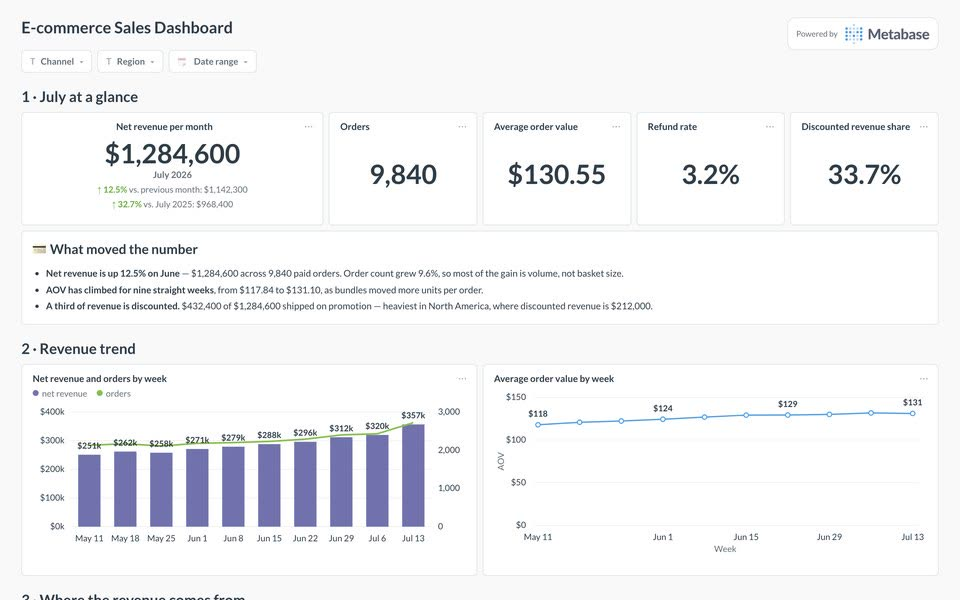
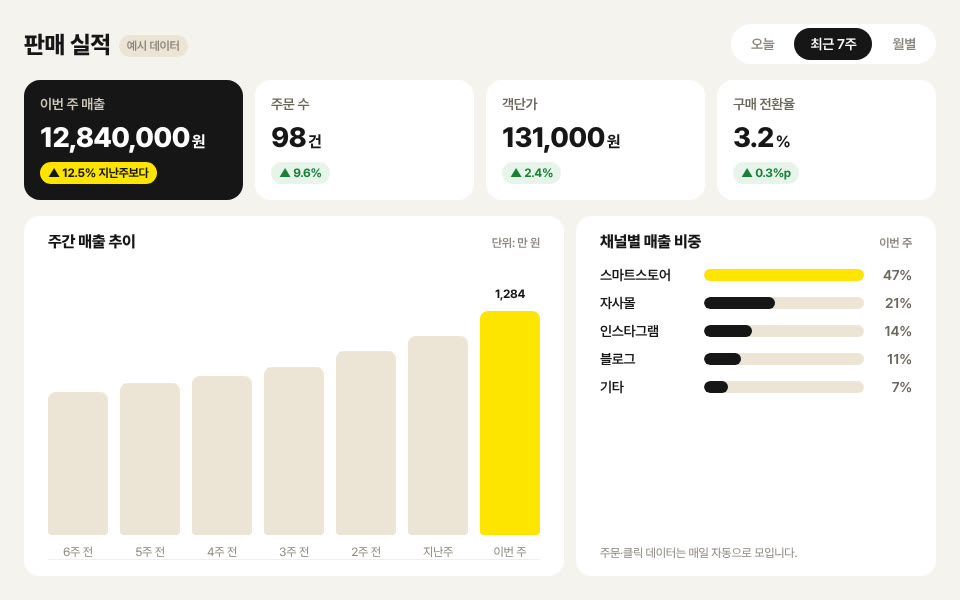
메인 흐름 04 실적 확인 화면을 한국어 미니멀 대시보드(예시 데이터)로 교체
- 영어 Metabase 샘플 대신 매출·주문·객단가·전환율 카드, 주간 막대, 채널 비중을 한국어로 보여 주는 6초 반복 WebP(1.1MB→95KB)
- 생성 원본·스크립트 tools/flow-step4, 문서 77절

Claude-Session: https://claude.ai/code/session_0154aptk4P8ouMd3uFqhwB6x

diff --git a/index.html b/index.html
@@ -162,7 +162,7 @@
   <div class="wrap">
     <div class="h-flow-head"><p class="h-kicker">WORKFLOW</p><h2 id="hFlowTitle">기획부터 실적 확인까지,<br>실제 화면으로 보는 흐름</h2>
     <p>도구를 단계별로 이어 쓰는 흐름입니다. 단계 사이가 자동으로 연결되는 기능은 아니며, 화면은 고객 실적이나 AI 자동 실행 결과가 아닙니다.</p></div>
-    <ol class="wf wf-2"><li class="wf-step"><figure><span class="wf-shot"><picture><source media="(prefers-reduced-motion: reduce)" srcset="assets/screens/flow-step1-poster.jpg"><img src="assets/screens/flow-step1.webp" width="680" height="712" alt="망고트리 AI 기획 실제 화면: 인사말과 질문이 차례로 나타나고, 상세페이지·홈페이지·카탈로그·포장디자인 중 고르는 선택지가 열림" loading="lazy" decoding="async"></picture></span><figcaption class="wf-body"><span class="wf-n">01</span><h3>기획 입력</h3><p>망고트리 AI 기획에서 만들 것(상세페이지·홈페이지·카탈로그·포장디자인)을 고르고, 질문에 차례로 답하며 기획 방향을 정리합니다.</p><p class="wf-next">다음 → 템플릿 고르기</p></figcaption></figure></li><li class="wf-step"><figure><span class="wf-shot"><picture><source media="(prefers-reduced-motion: reduce)" srcset="assets/screens/flow-step2-poster.jpg"><img src="assets/screens/flow-step2.webp" width="960" height="600" alt="페이지메이커 템플릿 갤러리 실제 화면이 자동으로 진행되는 장면: 검색창에 상세페이지를 입력하고 템플릿 목록을 내려 봄" loading="lazy" decoding="async"></picture></span><figcaption class="wf-body"><span class="wf-n">02</span><h3>템플릿 고르기</h3><p>페이지메이커 템플릿 갤러리에서 유형(상세페이지·카드뉴스·포스터 등)과 업종으로 템플릿을 찾아 고릅니다.</p><p class="wf-next">다음 → 링크 만들어 알리기</p></figcaption></figure></li><li class="wf-step"><figure><span class="wf-shot"><picture><source media="(prefers-reduced-motion: reduce)" srcset="assets/screens/flow-step3-poster.jpg"><img src="assets/screens/flow-step3.webp" width="960" height="600" alt="페이지커넥트 커넥트 실제 화면이 자동으로 진행되는 장면: 숙소 상품마다 판매수익률·가격과 링크 복사 버튼이 있는 목록을 내려 봄" loading="lazy" decoding="async"></picture></span><figcaption class="wf-body"><span class="wf-n">03</span><h3>링크 만들어 알리기</h3><p>페이지커넥트에서 홍보할 상품의 링크를 만들어 블로그·SNS에 게시합니다.</p><p class="wf-next">다음 → 실적 확인</p></figcaption></figure></li><li class="wf-step"><figure><span class="wf-shot"><picture><source media="(prefers-reduced-motion: reduce)" srcset="assets/screens/flow-step4-poster.jpg"><img src="assets/screens/flow-step4.webp" width="960" height="600" alt="통계 대시보드 예시 화면을 위에서 아래로 훑는 장면: 매출·주문 수·객단가, 주간 추이, 채널별 비중" loading="lazy" decoding="async"></picture></span><figcaption class="wf-body"><span class="wf-n">04</span><h3>실적 확인</h3><p>매출·주문 수와 주간 추이, 채널별 실적을 한눈에 확인하는 통계 화면 예시입니다.</p><p class="wf-next end">마지막 단계</p></figcaption></figure></li></ol>
+    <ol class="wf wf-2"><li class="wf-step"><figure><span class="wf-shot"><picture><source media="(prefers-reduced-motion: reduce)" srcset="assets/screens/flow-step1-poster.jpg"><img src="assets/screens/flow-step1.webp" width="680" height="712" alt="망고트리 AI 기획 실제 화면: 인사말과 질문이 차례로 나타나고, 상세페이지·홈페이지·카탈로그·포장디자인 중 고르는 선택지가 열림" loading="lazy" decoding="async"></picture></span><figcaption class="wf-body"><span class="wf-n">01</span><h3>기획 입력</h3><p>망고트리 AI 기획에서 만들 것(상세페이지·홈페이지·카탈로그·포장디자인)을 고르고, 질문에 차례로 답하며 기획 방향을 정리합니다.</p><p class="wf-next">다음 → 템플릿 고르기</p></figcaption></figure></li><li class="wf-step"><figure><span class="wf-shot"><picture><source media="(prefers-reduced-motion: reduce)" srcset="assets/screens/flow-step2-poster.jpg"><img src="assets/screens/flow-step2.webp" width="960" height="600" alt="페이지메이커 템플릿 갤러리 실제 화면이 자동으로 진행되는 장면: 검색창에 상세페이지를 입력하고 템플릿 목록을 내려 봄" loading="lazy" decoding="async"></picture></span><figcaption class="wf-body"><span class="wf-n">02</span><h3>템플릿 고르기</h3><p>페이지메이커 템플릿 갤러리에서 유형(상세페이지·카드뉴스·포스터 등)과 업종으로 템플릿을 찾아 고릅니다.</p><p class="wf-next">다음 → 링크 만들어 알리기</p></figcaption></figure></li><li class="wf-step"><figure><span class="wf-shot"><picture><source media="(prefers-reduced-motion: reduce)" srcset="assets/screens/flow-step3-poster.jpg"><img src="assets/screens/flow-step3.webp" width="960" height="600" alt="페이지커넥트 커넥트 실제 화면이 자동으로 진행되는 장면: 숙소 상품마다 판매수익률·가격과 링크 복사 버튼이 있는 목록을 내려 봄" loading="lazy" decoding="async"></picture></span><figcaption class="wf-body"><span class="wf-n">03</span><h3>링크 만들어 알리기</h3><p>페이지커넥트에서 홍보할 상품의 링크를 만들어 블로그·SNS에 게시합니다.</p><p class="wf-next">다음 → 실적 확인</p></figcaption></figure></li><li class="wf-step"><figure><span class="wf-shot"><picture><source media="(prefers-reduced-motion: reduce)" srcset="assets/screens/flow-step4-poster.jpg"><img src="assets/screens/flow-step4.webp" width="960" height="600" alt="판매 실적 예시 화면(예시 데이터): 이번 주 매출·주문 수·객단가·구매 전환율 숫자가 올라가고, 주간 매출 막대와 채널별 매출 비중 막대가 차례로 채워짐" loading="lazy" decoding="async"></picture></span><figcaption class="wf-body"><span class="wf-n">04</span><h3>실적 확인</h3><p>매출·주문 수와 주간 추이, 채널별 실적을 한눈에 확인하는 통계 화면 예시입니다.</p><p class="wf-next end">마지막 단계</p></figcaption></figure></li></ol>
   </div>
 </section>
 

diff --git a/tools/flow-step4/dashboard.html b/tools/flow-step4/dashboard.html
@@ -1,0 +1,69 @@
+<!doctype html><html lang="ko"><head><meta charset="utf-8">
+<!-- 메인 h-flow 04 「실적 확인」 화면 원본(960x600). 수치는 화면 설명용 예시 데이터. tools/flow-step4/render.js 로 animated WebP 생성 -->
+<link rel="stylesheet" href="https://cdn.jsdelivr.net/gh/orioncactus/pretendard@v1.3.9/dist/web/static/pretendard.min.css">
+<style>
+*{box-sizing:border-box;margin:0;padding:0}
+html,body{width:960px;height:600px;overflow:hidden;background:#F5F3EE;font-family:Pretendard,sans-serif;color:#161616;letter-spacing:-.02em}
+.app{position:absolute;inset:24px;display:grid;grid-template-rows:auto auto 1fr;gap:16px}
+.top{display:flex;align-items:center;justify-content:space-between}
+.top h1{font-size:24px;font-weight:800}
+.top h1 small{margin-left:8px;font-size:12px;font-weight:600;color:#8a857c;background:#ECE5D6;border-radius:999px;padding:4px 8px;vertical-align:middle}
+.tabs{display:flex;gap:4px;background:#fff;border-radius:999px;padding:4px}
+.tabs span{font-size:14px;font-weight:600;color:#8a857c;padding:8px 16px;border-radius:999px}
+.tabs span.on{background:#161616;color:#fff}
+.kpis{display:grid;grid-template-columns:repeat(4,1fr);gap:12px}
+.kpi{background:#fff;border-radius:16px;padding:16px}
+.kpi p{font-size:14px;color:#6b665c;font-weight:600}
+.kpi b{display:block;margin-top:8px;font-size:28px;font-weight:800;letter-spacing:-.03em}
+.kpi b small{font-size:16px;font-weight:700;margin-left:2px}
+.kpi i{display:inline-block;margin-top:8px;font-style:normal;font-size:12px;font-weight:700;color:#1a7f37;background:#e6f4ea;border-radius:999px;padding:4px 8px}
+.kpi.main{background:#161616;color:#fff}.kpi.main p{color:#cfc9bd}.kpi.main i{background:#FEE500;color:#161616}
+.row{display:grid;grid-template-columns:1.5fr 1fr;gap:12px;min-height:0}
+.card{background:#fff;border-radius:16px;padding:16px 24px;display:flex;flex-direction:column;min-height:0}
+.card h2{font-size:16px;font-weight:800;display:flex;justify-content:space-between;align-items:baseline}
+.card h2 span{font-size:12px;font-weight:600;color:#8a857c}
+.bars{flex:1;display:flex;align-items:flex-end;gap:12px;margin-top:40px;padding-bottom:24px;position:relative;border-bottom:1px solid #eee}
+.bar{flex:1;position:relative;background:#ECE5D6;border-radius:8px 8px 4px 4px;height:0}
+.bar.last{background:#FEE500}
+.bar em{position:absolute;left:50%;bottom:-24px;transform:translateX(-50%);font-style:normal;font-size:12px;color:#8a857c;white-space:nowrap}
+.bar strong{position:absolute;left:50%;top:-24px;transform:translateX(-50%);font-size:12px;font-weight:700;white-space:nowrap;opacity:0}
+.ch{margin-top:16px;display:grid;gap:12px}
+.ch div{display:grid;grid-template-columns:96px 1fr 40px;align-items:center;gap:8px;font-size:14px;font-weight:600}
+.ch u{display:block;height:12px;border-radius:999px;background:#ECE5D6;overflow:hidden;text-decoration:none}
+.ch u s{display:block;height:100%;width:0;background:#161616;border-radius:999px;text-decoration:none}
+.ch div:first-child u s{background:#FEE500}
+.ch em{font-style:normal;text-align:right;color:#6b665c}
+.note{margin-top:auto;padding-top:12px;font-size:12px;color:#8a857c}
+</style></head><body>
+<div class="app">
+ <div class="top"><h1>판매 실적<small>예시 데이터</small></h1><div class="tabs"><span>오늘</span><span class="on">최근 7주</span><span>월별</span></div></div>
+ <div class="kpis">
+  <div class="kpi main"><p>이번 주 매출</p><b><span data-n="12840000" data-f="won"></span><small>원</small></b><i>▲ 12.5% 지난주보다</i></div>
+  <div class="kpi"><p>주문 수</p><b><span data-n="98"></span><small>건</small></b><i>▲ 9.6%</i></div>
+  <div class="kpi"><p>객단가</p><b><span data-n="131000" data-f="won"></span><small>원</small></b><i>▲ 2.4%</i></div>
+  <div class="kpi"><p>구매 전환율</p><b><span data-n="3.2" data-f="pct"></span><small>%</small></b><i>▲ 0.3%p</i></div>
+ </div>
+ <div class="row">
+  <div class="card"><h2>주간 매출 추이<span>단위: 만 원</span></h2>
+   <div class="bars" id="bars"></div></div>
+  <div class="card"><h2>채널별 매출 비중<span>이번 주</span></h2>
+   <div class="ch" id="ch"></div>
+   <p class="note">주문·클릭 데이터는 매일 자동으로 모입니다.</p></div>
+ </div>
+</div>
+<script>
+const W=[[ '6주 전',820],['5주 전',870],['4주 전',910],['3주 전',960],['2주 전',1050],['지난주',1141],['이번 주',1284]];
+const C=[['스마트스토어',47],['자사몰',21],['인스타그램',14],['블로그',11],['기타',7]];
+const bars=document.getElementById('bars'),ch=document.getElementById('ch');
+W.forEach((w,i)=>{const d=document.createElement('div');d.className='bar'+(i===W.length-1?' last':'');d.innerHTML='<strong>'+w[1].toLocaleString()+'</strong><em>'+w[0]+'</em>';bars.appendChild(d)});
+C.forEach(c=>{const d=document.createElement('div');d.innerHTML='<span>'+c[0]+'</span><u><s></s></u><em>'+c[1]+'%</em>';ch.appendChild(d)});
+const ease=x=>x<0?0:x>1?1:1-Math.pow(1-x,3);
+// t: 0~6000ms. 0~1.2초 숫자·막대 등장, 이후 유지, 5.4초부터 처음 상태로 서서히
+window.render=function(t){const out=t>5400?ease((t-5400)/600):0;
+ document.querySelectorAll('[data-n]').forEach((el,i)=>{const k=ease((t-i*120)/1100)*(1-out);const n=+el.dataset.n*k;
+  el.textContent=el.dataset.f==='pct'?n.toFixed(1):Math.round(n/ (el.dataset.f==='won'?1000:1))*(el.dataset.f==='won'?1000:1)>0?Math.round(n/(el.dataset.f==='won'?1000:1)*(el.dataset.f==='won'?1000:1)).toLocaleString():'0'});
+ const max=1284;[...bars.children].forEach((b,i)=>{const k=ease((t-300-i*130)/700)*(1-out);b.style.height=(W[i][1]/max*92*k)+'%';b.querySelector('strong').style.opacity=i===W.length-1?Math.max(0,Math.min(1,(t-1500)/300))*(1-out):0});
+ [...ch.querySelectorAll('s')].forEach((s,i)=>{const k=ease((t-900-i*120)/700)*(1-out);s.style.width=(C[i][1]/47*100*k)+'%'});
+};
+window.render(2500);
+</script></body></html>

diff --git a/tools/flow-step4/render.js b/tools/flow-step4/render.js
@@ -1,0 +1,12 @@
+// dashboard.html 을 프레임별로 찍어 메인 흐름 04 이미지(assets/screens/flow-step4.webp, -poster.jpg)를 만든다.
+// 사용: node tools/flow-step4/render.js  (저장소 루트를 http://localhost:8765 로 서비스하는 상태에서)
+const {chromium}=require('playwright');const {execFileSync}=require('child_process');const fs=require('fs'),path=require('path'),os=require('os');
+(async()=>{const FPS=12,DUR=6;const tmp=fs.mkdtempSync(path.join(os.tmpdir(),'fs4-'));
+const b=await chromium.launch();const p=await b.newPage({viewport:{width:960,height:600}});
+await p.goto('http://localhost:8765/tools/flow-step4/dashboard.html',{waitUntil:'networkidle'});await p.evaluate(()=>document.fonts.ready);
+for(let i=0;i<FPS*DUR;i++){await p.evaluate(t=>window.render(t),i*1000/FPS);await p.screenshot({path:path.join(tmp,String(i).padStart(4,'0')+'.png')});}
+await p.evaluate(()=>window.render(2500));await p.screenshot({path:path.join(tmp,'poster.png')});await b.close();
+execFileSync('ffmpeg',['-loglevel','error','-y','-framerate',String(FPS),'-i',path.join(tmp,'%04d.png'),'-c:v','libwebp_anim','-loop','0','-lossless','1','-compression_level','6','assets/screens/flow-step4.webp']);
+execFileSync('ffmpeg',['-loglevel','error','-y','-i',path.join(tmp,'poster.png'),'-q:v','3','assets/screens/flow-step4-poster.jpg']);
+if(process.argv[2])fs.copyFileSync(path.join(tmp,'0030.png'),process.argv[2]);
+console.log('flow-step4.webp',fs.statSync('assets/screens/flow-step4.webp').size);})();
